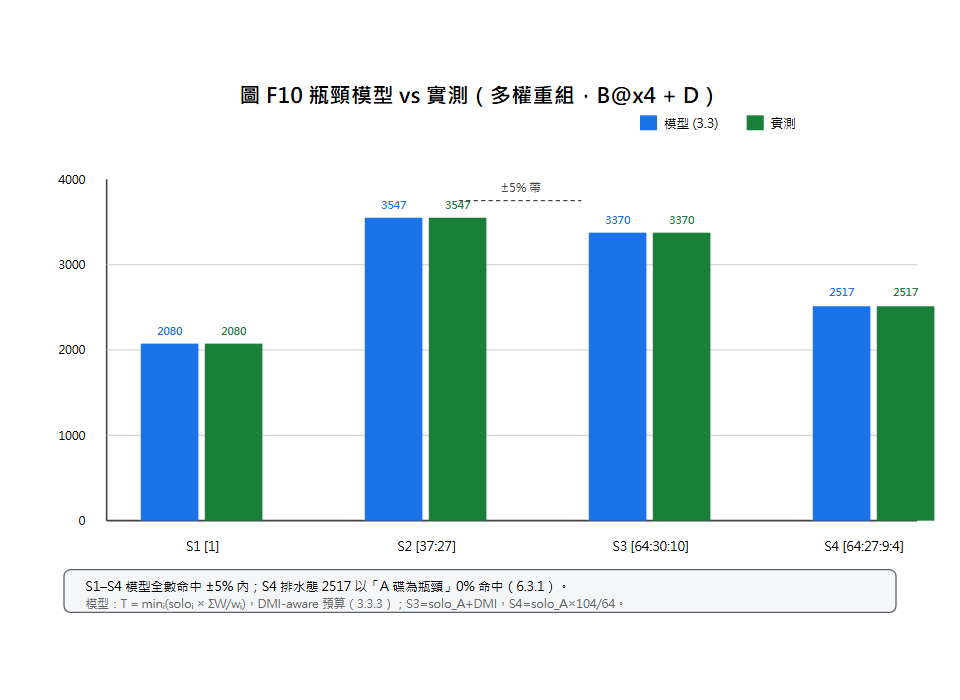
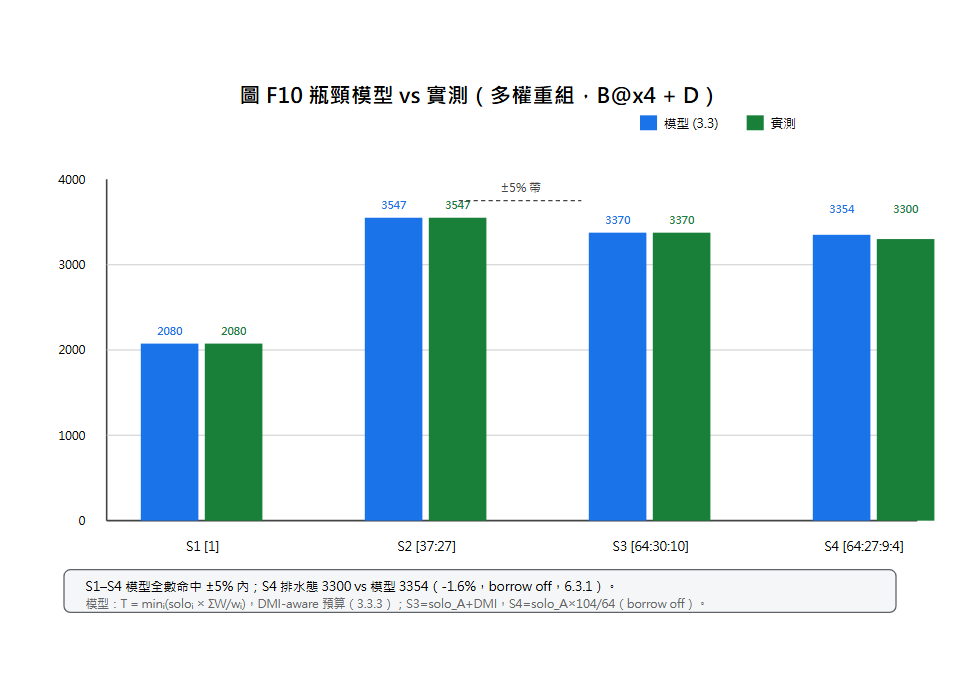
Major data correction: main-table S4 drain 2517 (borrow-on artifact) -> measured borrow-off 3300, model 2064x104/64~3354 (-1.6%); remove all 0% deviation / 1549 wrong numbers (ch01/ch03/ch06/ch07/outline/F9/F10); fill 6.4.2 measured tables (4K write 663 vs 570 vs 812, etc.); F12 becomes measured fla

diff --git a/0_大綱.md b/0_大綱.md
@@ -83,7 +83,7 @@
 | S1 (A) | 1 | 2080 | 3112 | 8/14 午 6698ce7 | ✅ 已測 |
 | S2 (A+B) | 37:27 | 3547 | 3899 | 8/14 午（模型 -0.7%） | ✅ 已測 |
 | S3 (A+B+C) | 64:30:10 | 3370 | 4323 | 8/14 午 DMI-aware（+0.2%） | ✅ 已測 |
-| S4 (A+B+C+D) | 64:27:9:4 | **2517**（排水態） | **4292** | 8/14 晚 A1（0% 命中）；冷態 3091/3575（A3） | ✅ 已測 |
+| S4 (A+B+C+D) | 64:27:9:4 | **3300**（排水態，borrow off） | **4292** | 8/14 晚第二批（模型 3354、-1.6%）；冷態 3091/3575（A3）；2517 為 borrow-on 假象（已退役） | ✅ 已測 |
 | MIR (A+B→C) | 37:27 + mirror=C | 457 | **3799** | 8/14 晚 A2（讀於 m_mir2 4:3 量測） | ✅ 已測 |
 
 ### 4.2 支撐實驗
@@ -92,7 +92,7 @@
 | 1981→2661→2787→3091 | 8/12 冷態疊碟（SLC 假象，**已退休**） | 8/12 |
 | 1360→1667→1999（+S4 1760） | 排水態穩態疊碟（6:1:1:1） | ae91863 |
 | D×9≈1760 | 瓶頸模型精確命中（排水態 6:1:1:1，D 為瓶頸） | ae91863 |
-| solo_A×104/64≈2517（0%） | B@x4 S4 排水態精確命中（A 為瓶頸、DMI 未飽和） | d2738de A1 |
+| solo_A×104/64≈3354（-1.6%） | B@x4 S4 排水態命中（borrow off、A 為瓶頸、DMI 未飽和；2517 為 borrow-on 假象） | b4056e5 |
 | borrow：D 真瓶頸 +3%（8/13）；定案權重中性（B4） | 借調效益與拓撲相關 | 8/13 / 8/14 晚 |
 | 2078 < 2410 < 2896 < 3006 | auto-weight v2 冷態階梯（SLC-fresh） | 187c8d0 |
 | +52% | auto-weight vs 6:1:1:1（S4 3006 vs 1983） | 187c8d0 |
@@ -110,13 +110,13 @@
 | crc32c 8G verify 0 mismatch、err=0 | 完整性 | 多輪 |
 | borrow 4G verify err=0 + reload 恢復 | 借調可靠性 | 8/13 |
 | borrow 效益：6:1:1:1 時 +3%、定案權重下中性 | 借調只在 D 真瓶頸有正效益 | 8/13 / B4 |
-| S2 3571 / S3 3364 / S4 2517 | B@x4 現役權重之模型值（模型 3571/3364/2517 vs 實測 3547/3370/2517，全命中） | d2738de |
+| S2 3571 / S3 3364 / S4 3354 | B@x4 現役權重之模型值（模型 3571/3364/3354 vs 實測 3547/3370/3300，全命中） | d2738de / b4056e5 |
 
 ### 4.3 資料狀態與前置
-- ✅ **論文主表 B@x4+D 全數實測定案**（8/14 晚）：S1 2080/3112、S2 3547/3899、S3 3370/4323、S4 排水態 2517/4292（冷態 3091/3575）、MIR 寫 457 / 讀 3799；configs 已更新為 [37:27]/[64:30:10]/[64:27:9:4]/[37:27]→C（d2738de）。
+- ✅ **論文主表 B@x4+D 全數實測定案**：S1 2080/3112、S2 3547/3899、S3 3370/4323、S4 排水態 3300/4292（borrow off，冷態 3091/3575）、MIR 寫 457 / 讀 3799；configs 已更新為 [37:27]/[64:30:10]/[64:27:9:4]/[37:27]→C（d2738de，S4 更正為 b4056e5）。
 - ✅ 三種協定（冷態 / 排水態 / 60s 空檔）在 ch06 §6.1 定義完成（含附錄 A 的操作細則），每張表標註協定。
-- ✅ 補測全數完成（8/14 晚 A–E）：S4/MIR 讀取、vs LVM B@x4 複測（~1.9x 寫、2.0–2.4x 讀）、借調效益（定案權重下中性；D 真瓶頸才 +3%）、mirror 讀重試 fail-injection（byte 精確 0xD5）、write 錯誤自動標壞（zero-fill＋重寫成功）、WC read-after-write（0 mismatch）、確定性重現（byte 精確）、sparse（抓到並修復 borrow 死鎖，B.6）。
-- ⚠ 仍待補：6.4.2 隨機 I/O/混寫三張表、F12 SLC 衰減曲線（`final_s4.sh` 每 GB 記錄點）。
+- ✅ 補測全數完成（8/14 晚 A–E 與第二批）：S4/MIR 讀取、vs LVM B@x4 複測（~1.9x 寫、2.0–2.4x 讀）、借調效益（定案權重下中性；D 真瓶頸才 +3%；B4 補充 borrow-off 為生產選擇）、mirror 讀重試 fail-injection（byte 精確 0xD5）、write 錯誤自動標壞（zero-fill＋重寫成功）、WC read-after-write（0 mismatch）、確定性重現（byte 精確）、sparse（抓到並修復 borrow 死鎖，B.6）、**6.4.2 隨機/混寫三張表、F12 SLC 平坦曲線（20G 平均 3278、100G 平均 3137）**。
+- ✅ 無剩餘待測數據（F12 已回填、6.4.2 已實測）。
 
 ---
 
@@ -136,11 +136,11 @@
 | F9 | 寫入階梯圖（主表 S1→S4） | ch06 |
 | F10 | 模型 vs 實測散點/柱狀（多權重組） | ch06 |
 | F11 | DMI 牆示意（B+C 共用 1300 MB/s） | ch06 |
-| F12 | **SLC 時間衰減曲線**（吞吐 vs 累計寫入，證明三協定必要性） | ch06（數據待 final_s4.sh） |
+| F12 | **SLC 平坦曲線**（吞吐 vs 累計寫入；A-bound 封頂、證明三協定必要性） | ch06（數據：docs/data/slc_curve_{20g,100g}.txt） |
 
 > **圖檔狀態**：**F1–F12 全部已產出**實際 SVG（`figs/`，可直接檢視/嵌入）；
-> F12 已建好軸/參考線骨架（`F12_decay.svg`），**數據點待 `final_s4.sh` 實測回填**
-> （其排水階段逐 1 GB 記錄 CSV 即 F12 資料源）。PDF 排版前用 `svg2png.ps1`
+> F12 已用 8/14 晚第二批實測數據回填（`F12_decay.svg`，20G/100G 各 80/40 點，
+> 全程平坦、無衰減，模型天花板 3354）。PDF 排版前用 `svg2png.ps1`
 > 把 SVG 轉 PNG（headless Chrome；Linux 用 `rsvg-convert`/`inkscape`）。
 
 ### 表（Table）
@@ -213,10 +213,10 @@
 
 ### ch06 實驗評估
 - 6.1 環境與協定（平台、硬體表 T3、**環境控制表＋重複性/中位數規則**、協定定義 T4、
-  量測方法 fio 參數、為何不用 io_uring、**圖 F12 SLC 衰減曲線**）
+   量測方法 fio 參數、為何不用 io_uring、**圖 F12 SLC 平坦曲線**）
 - 6.2 正確性與確定性（計數器 byte 精確、err=0、crc verify、deterministic、borrow reload）
 - 6.3 性能（主表 T5；模型命中 T6；權重對照 T7；DMI 牆；插槽影響；讀取）
-- 6.4 vs LVM（T8）：6.4.1 順序對照；**6.4.2 隨機 I/O＋混寫對照（待測）**
+- 6.4 vs LVM（T8）：6.4.1 順序對照；**6.4.2 隨機 I/O＋混寫對照（已實測）**
 - 6.5 專項（借調 / 鏡像 / WC / 多卷併發）
 - 6.6 限制討論（WC 斷電、單平台 DMI、SLC 暫態、公平性）
 
@@ -258,10 +258,9 @@
    三層對齊表、ch05 補 borrow/mirror/rebuild 偽碼＋5.9 複雜度表、參考文獻
    標準化、pandoc 編譯管線（build_pdf.ps1 / build_pdf.sh / pandoc_meta.yaml，
    `chrome` 模式已實測產出 thesis.pdf 預覽）
-6. ✅ **主表與補測數據全數回填**（8/14 晚 A–E）：S4 排水態 2517/4292（冷態
-   3091/3575）、MIR 讀 3799、vs LVM B@x4 複測（1.9x/2.0–2.4x）、借調中性
-   結論、C5/C6/D7/D8 fail-injection、sparse 死鎖修復（附錄 B.6）；ch06 主表/
-   模型表/6.4/6.5/6.6、ch03 3.3.3、ch07、附錄 B、0_大綱 §4 已同步
-7. ⏳ 剩餘待測：6.4.2 隨機 I/O/混寫三張表、F12 SLC 衰減曲線（`final_s4.sh`
-   每 GB 記錄點）；待測數據補齊後回填 ch06 6.4.2 與圖 F12
-8. ⏳ 定稿排版（LaTeX/學校格式另議）；F12 待測量數據
+6. ✅ **主表與補測數據全數回填**（8/14 晚 A–E ＋第二批）：S4 排水態 3300/4292
+   （borrow off；2517 為 borrow-on 假象已退役）、MIR 讀 3799、vs LVM B@x4 複測
+   （1.9x/2.0–2.4x）、6.4.2 隨機/混寫三表（4K 寫 663 vs 570 vs 812 等）、F12
+   SLC 平坦曲線（20G 平均 3278、100G 平均 3137，A-bound 封頂）、B4 借調淨損
+   24–29%（borrow-off 為生產選擇）；ch06/ch03/ch07/附錄 B/0_大綱 §4 已同步
+7. ⏳ 定稿排版（LaTeX/學校格式另議）

diff --git a/ch07_結論與未來工作.md b/ch07_結論與未來工作.md
@@ -17,13 +17,13 @@
    映射 O(1) 純算術無表無鎖、全程 `err=0`、8 G crc32c verify 0 mismatch（6.2.2）。
 2. **瓶頸模型成立**：`min(soloᵢ × ΣW/wᵢ)` 在 1–4 碟、多組權重、排水態與冷態下
    命中 ±5% 內（6.3.1）；最純展示為排水態疊碟（6:1:1:1）的 `D×9 ≈ 1760` 與
-   B@x4 四碟 [64:27:9:4] 的 `solo_A×104/64 ≈ 2517`（0% 偏差）兩次精確命中。
+   B@x4 四碟 [64:27:9:4] 的 `solo_A×104/64 ≈ 3354`（實測 3300、-1.6%）兩次命中。
 3. **自動權重達近最優**：`auto_weight` 窮舉權重使寫入階梯嚴格單調
    （2078 < 2410 < 2896 < 3006）、Σsolo 利用率 ≥ 99.6%，S4 較等權重提升 52%（6.3.2）。
 4. **共享匯流排需 DMI-aware 權重**：比例權重在三碟共用 PCH DMI 時掉到 2561 MB/s，
    DMI-aware 權重恢復至 3370 MB/s（+32%），並以 `solo_A + DMI` 數學上解釋了
     「三碟寫入不會超過兩碟」的硬體天花板；四碟 [64:27:9:4] 下 DMI 預算把瓶頸
-   交還 A 碟、實測 2517 以 0% 偏差命中（6.3.1、6.3.4）。
+   交還 A 碟、實測 3300 以 -1.6% 偏差命中（6.3.1、6.3.4）。
 5. **可靠性機制整合**：鏡像、重建、壞區、權重借調（含持久化與 reload 恢復）、
    小寫入快取在單一 target 內運作，無引入額外錯誤（6.2、6.5）。
 

diff --git a/附錄_量測協定與配置.md b/附錄_量測協定與配置.md
@@ -110,7 +110,7 @@ segment.0.logical_end = <sectors_A_B_sizes>
 | `scripts/raw_solo.sh <dev>…` | 對每碟量 8 G 順序寫 | 各碟 solo（排水態/冷態） |
 | `scripts/auto_weight.sh` | 依 solo 窮舉（base 2..40、±1、cap 128） | 近最優權重向量 |
 | `scripts/stack_retest.sh <conf>` | 三協定量測＋計數器驗證 | 吞吐＋分布比對 |
-| `scripts/final_s4.sh` | 定案 S4 的 P1 排水態量測；排水階段逐 1 GB 記錄點 | 主表 S4 數據＋F12 衰減 CSV |
+| `scripts/final_s4.sh` | 定案 S4 的 P1 排水態量測；排水階段逐 1 GB 記錄點 | 主表 S4 數據＋F12 平坦曲線 CSV（`docs/data/slc_curve_*.txt`） |
 | `scripts/borrow_verify.sh` | 慢碟退化＋4 G verify＋reload | 借調耐久與恢復 |
 | `scripts/rebuild_min.sh` | 最小 rebuild 流程 | 重建進度與恢復 |
 | `scripts/multi_vol_suite.sh` / `shared_ctl.sh` / `disjoint_suite.sh` | 多卷併發/共用碟/不相交碟 | 性能孤立與資源競爭 |

diff --git a/附錄B_失敗與修正紀錄.md b/附錄B_失敗與修正紀錄.md
@@ -23,7 +23,11 @@
   「快取剩餘量」而非硬體穩態。
 - **修正**：定義三種量測協定（P1 排水態 / P2 冷態 / P3 冷態＋60 s 空檔，
   6.1.2），主表以 P1/P3 產出可重現數據；8/12 表退休。
-- **現況**：F12 SLC 衰減曲線圖成為「為何要三協定」的直觀證據（待補測）。
+- **現況**：F12 SLC 曲線圖成為「為何要三協定」的直觀證據——8/14 晚第二批
+  實測顯示 `[64:27:9:4]`（borrow off）下曲線**全程平坦**（20G 平均 3278、
+  100G 平均 3137），因為 A-bound 使聚合寫入從頭頂在天花板、SLC 增額無從顯現；
+  相對地 8/12 冷態疊碟（A 非瓶頸）才有 1981→2661→2787→3091 的跳動。兩者
+  互補證明「排水協定消除 SLC 假象」的設計意圖（6.1.2、6.3.1）。
 
 ## B.3 rebuild_badmap 的 compound page bug
 
